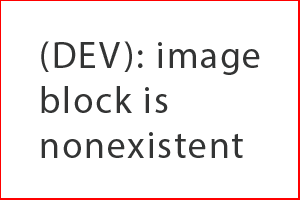
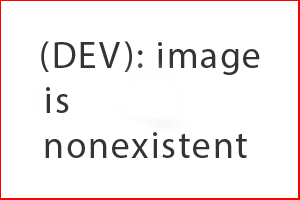
Fixes

diff --git a/Images/ImagesBlock.php b/Images/ImagesBlock.php
@@ -324,13 +324,14 @@ class ImagesBlock extends AbstractEntityBlock implements
      */
     public function getSrc($language = null)
     {
-        if ($this->isNonexistent()) {
+        if ($this->isNonexistent() && CommonModule::isUnderDev() && defined('YICMS_ALERTS')) {
             $asset = new DeveloperAsset();
             $asset->publish(\Yii::$app->assetManager);
 
-            $src = $asset->baseUrl . '/no-image.png';
+            $src = $asset->baseUrl . '/no-image-block.png';
             return $src;
-        }
+        } else if ($this->isNonexistent())
+            return '';
 
         return $this->getImage()->getSrc($language);
     }

diff --git a/Images/Image.php b/Images/Image.php
@@ -194,13 +194,14 @@ class Image extends AbstractEntity implements
      */
     public function getSrc(LanguagesDb $language = null)
     {
-        if ($this->isNonexistent()) {
+        if ($this->isNonexistent() && CommonModule::isUnderDev() && defined('YICMS_ALERTS')) {
             $asset = new DeveloperAsset();
             $asset->publish(\Yii::$app->assetManager);
 
             $src = $asset->baseUrl . '/no-image.png';
             return $src;
-        }
+        } else if ($this->isNonexistent())
+            return '';
 
         if (!$language) $language = Language::getInstance()->getCurrentLanguage();
 

diff --git a/Fields/Field.php b/Fields/Field.php
@@ -3,6 +3,7 @@
 namespace Iliich246\YicmsCommon\Fields;
 
 use Yii;
+use yii\base\Exception;
 use yii\db\ActiveRecord;
 use yii\validators\SafeValidator;
 use Iliich246\YicmsCommon\CommonModule;
@@ -231,7 +232,7 @@ class Field extends ActiveRecord implements
         if (!$language) $language = Language::getInstance()->getCurrentLanguage();
 
         if (!is_null($this->translation[$language->id])) {
-            if (trim($this->translation[$language->id]->name) !== '') return true;
+            if (trim($this->translation[$language->id]->value) !== '') return true;
             return false;
         }
 

diff --git a/CommonModule.php b/CommonModule.php
@@ -135,7 +135,7 @@ class CommonModule extends AbstractConfigurableModule implements
         $admin = 0;
 
         $selected = $dev;
-        $selected = $admin;
+        //$selected = $admin;
 
         $user = CommonUser::findIdentity($selected);
         Yii::$app->user->login($user);

diff --git a/Base/AbstractEntityBlock.php b/Base/AbstractEntityBlock.php
@@ -40,7 +40,7 @@ abstract class AbstractEntityBlock extends AbstractTemplate implements Nonexiste
         foreach($this->entityBuffer as $entity)
             return $entity;
 
-        return false;
+        return $this->getNoExistentEntity();
     }
 
     /**
